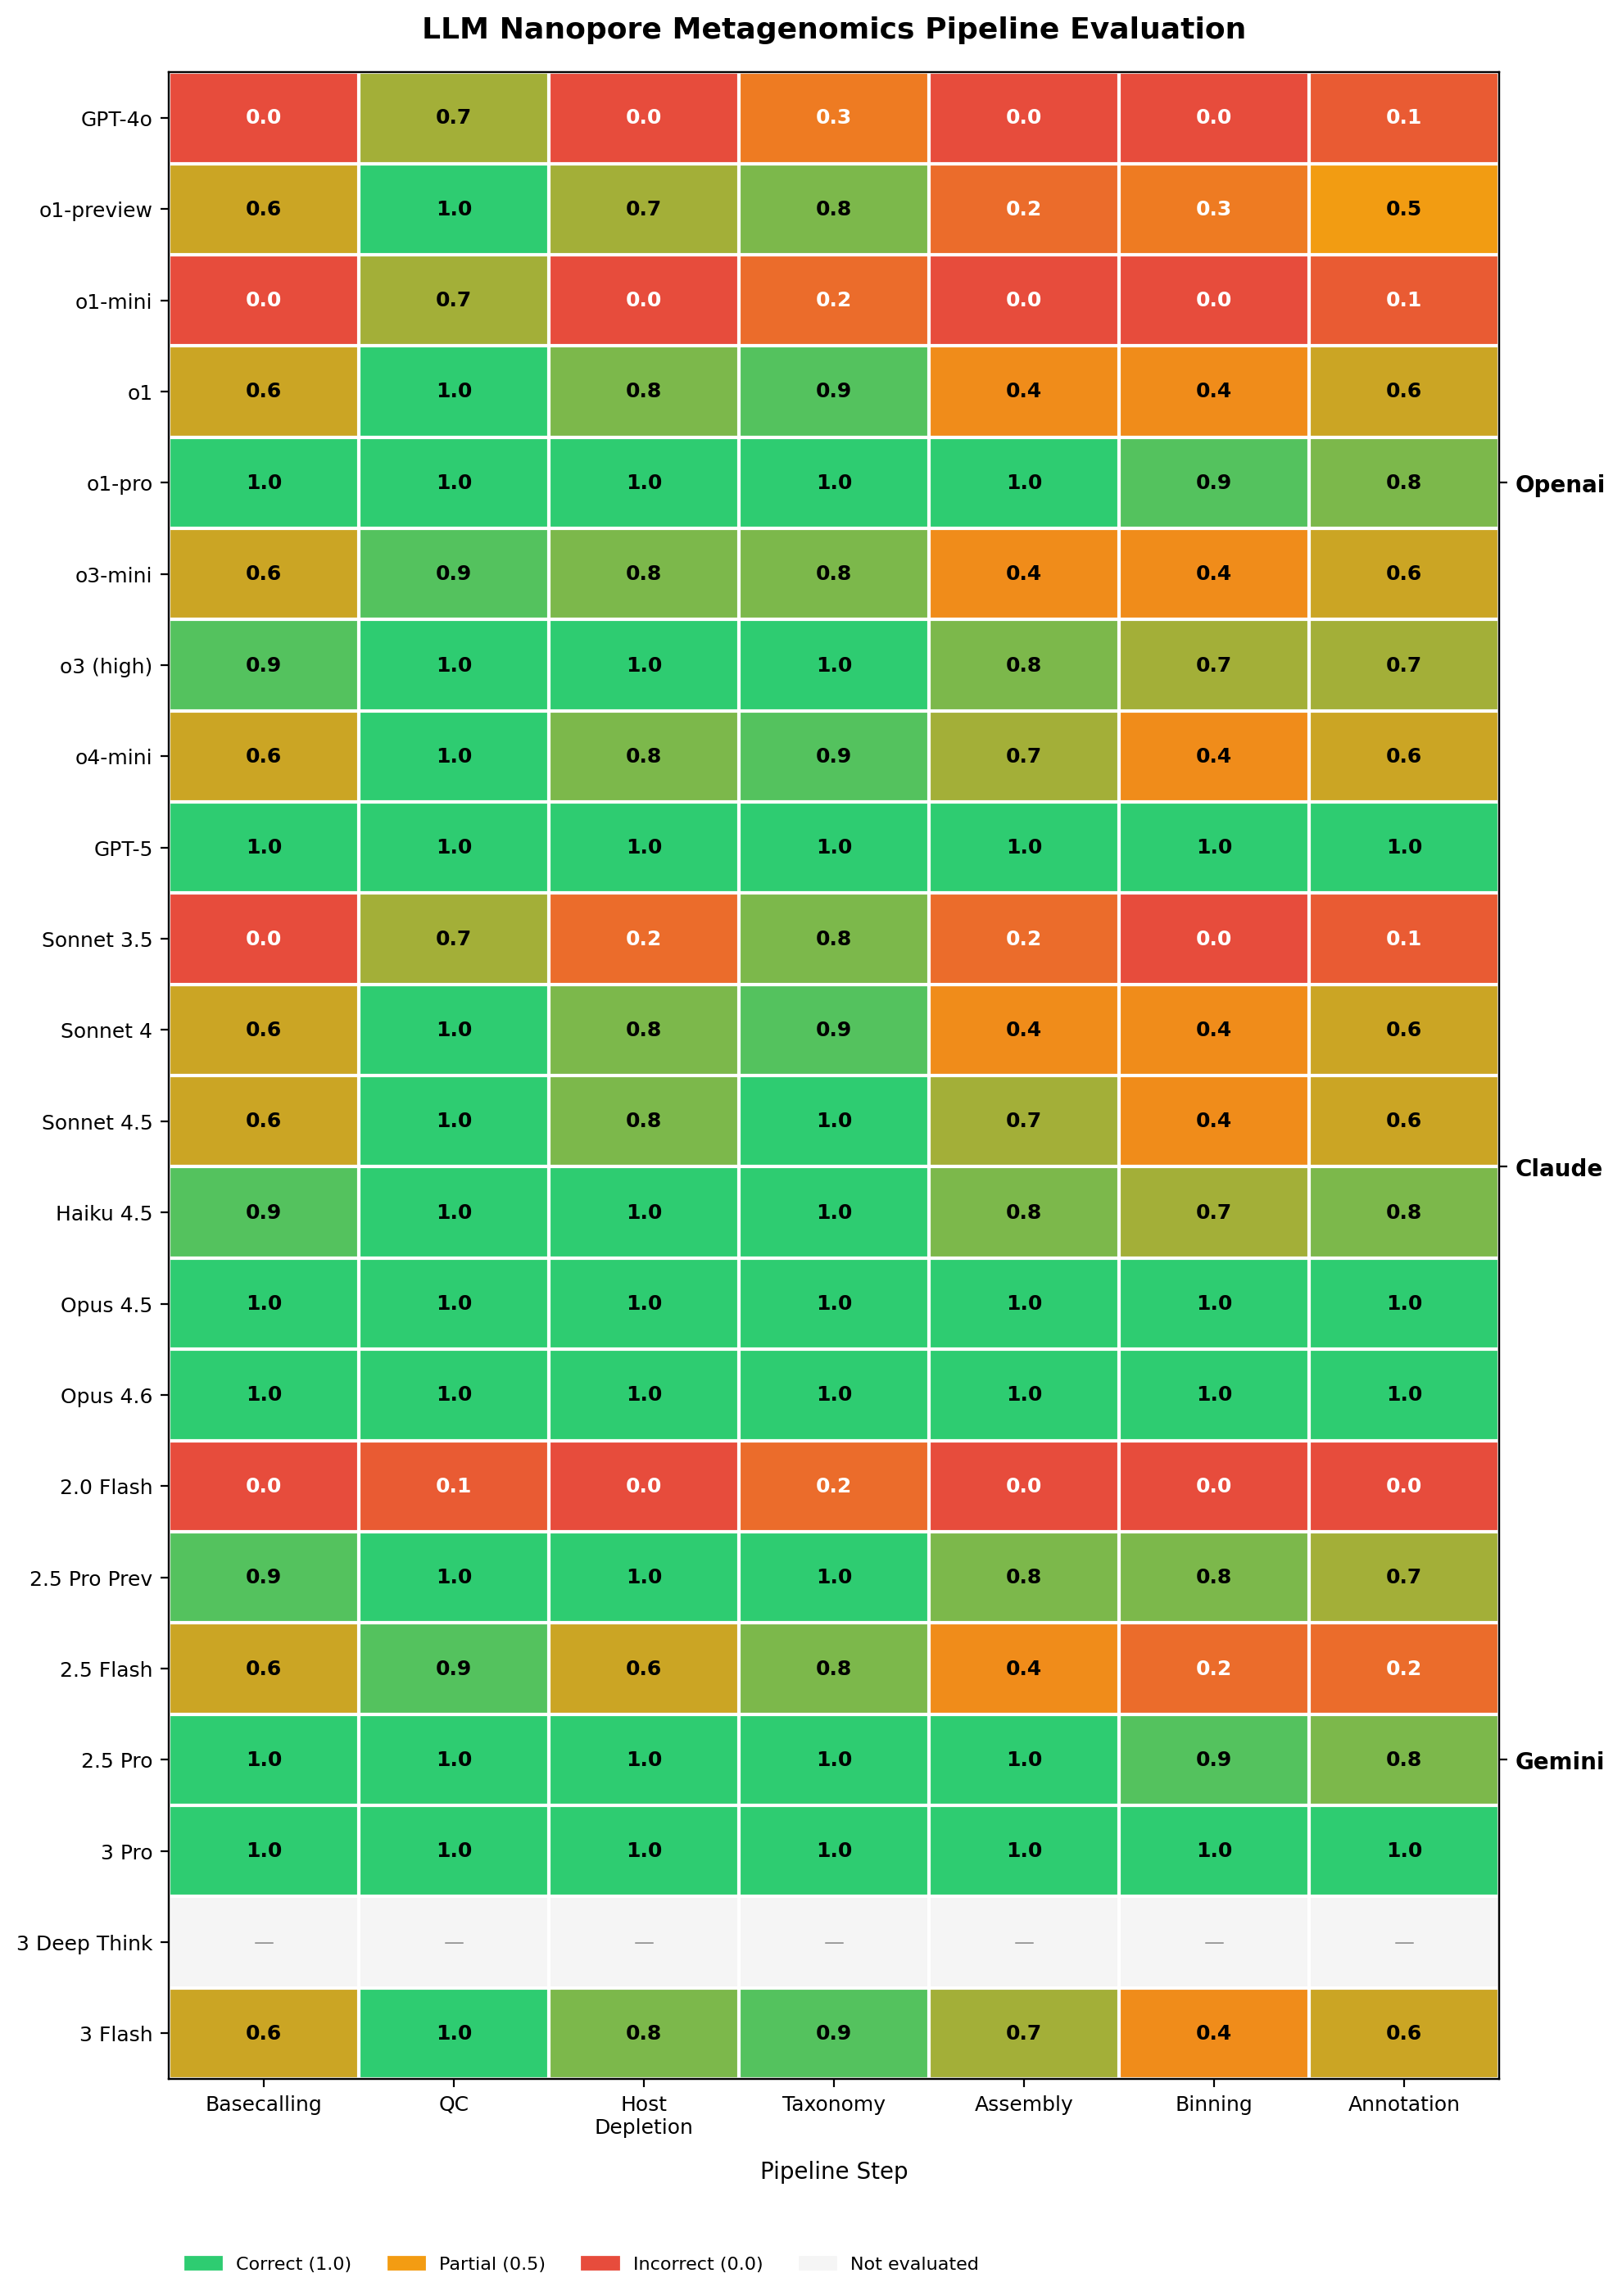
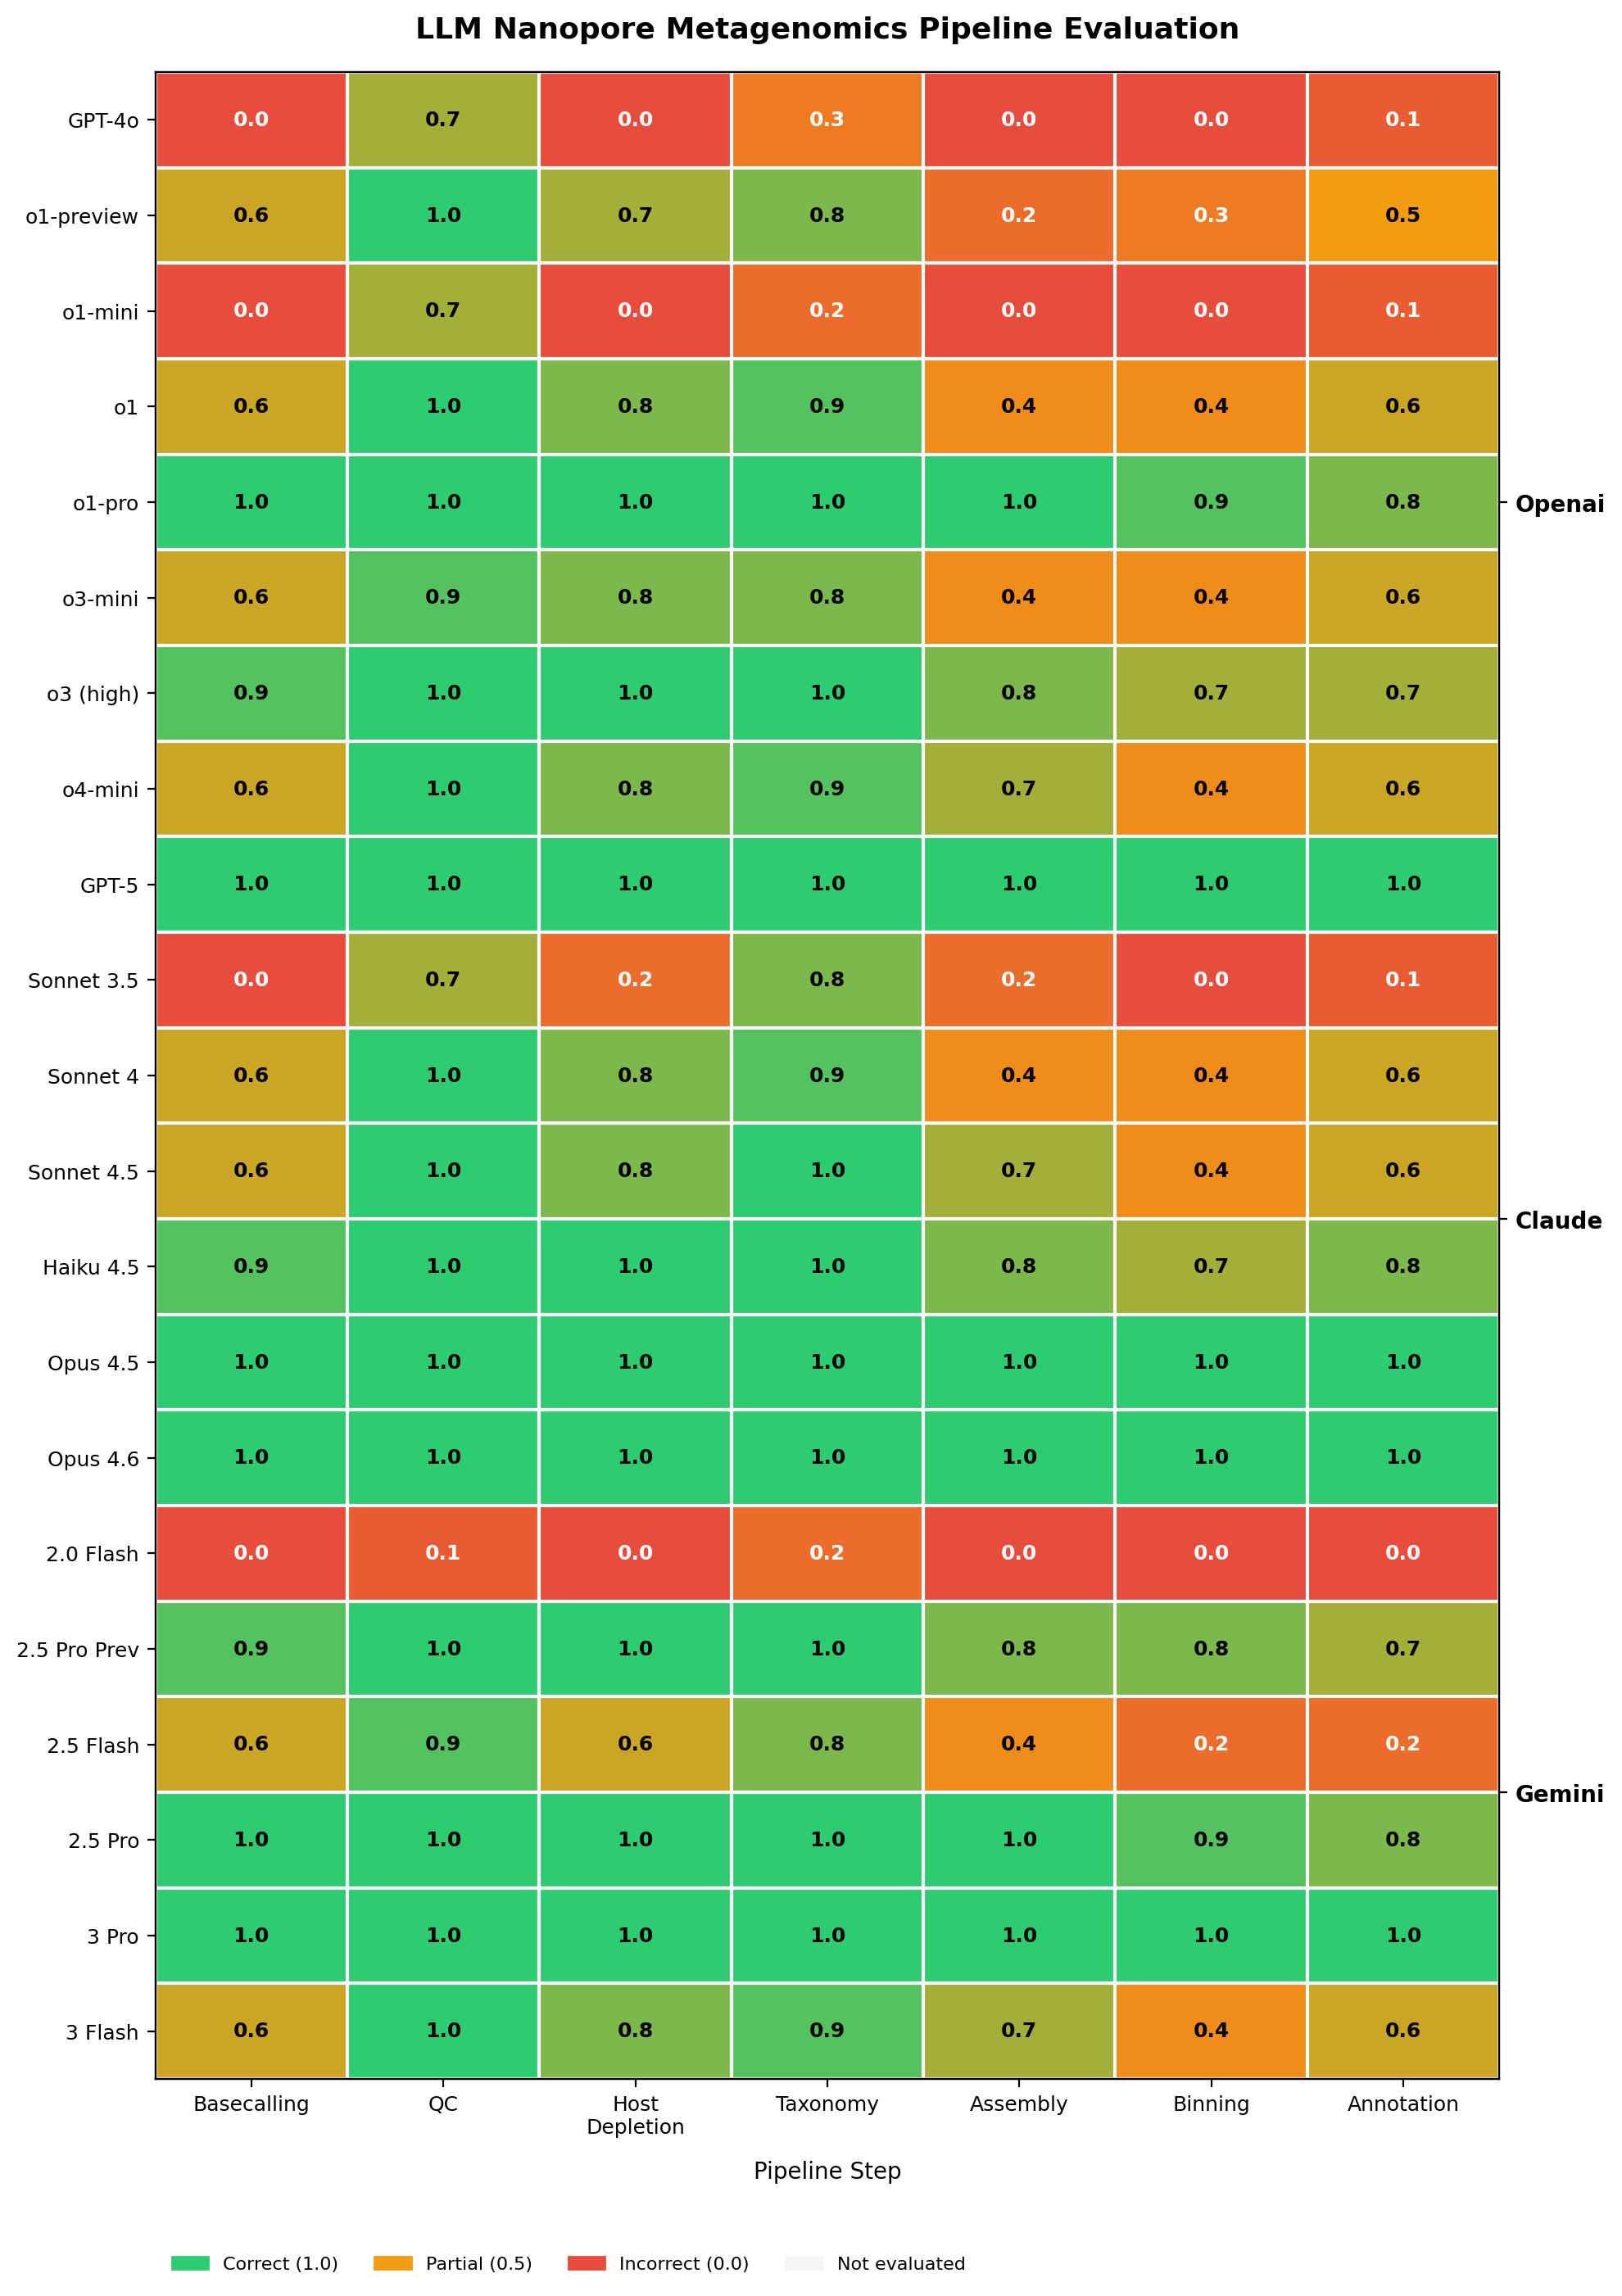
Fix: Remove hardcoded Deep Think from scripts and update figures

diff --git a/llm-eval/scripts/generate_radar.py b/llm-eval/scripts/generate_radar.py
@@ -158,7 +158,7 @@ def plot_version_timeline(df: pd.DataFrame, output_path: str):
     version_order = {
         "openai": ["gpt4o", "o1_preview", "o1_mini", "o1", "o1_pro", "o3_mini", "o3_high", "o4_mini", "gpt5"],
         "claude": ["sonnet_3.5", "sonnet_4", "sonnet_4.5", "haiku_4.5", "opus_4.5", "opus_4.6"],
-        "gemini": ["2.0_flash", "2.5_pro_preview", "2.5_flash", "2.5_pro_stable", "3_pro", "3_deep_think", "3_flash"],
+        "gemini": ["2.0_flash", "2.5_pro_preview", "2.5_flash", "2.5_pro_stable", "3_pro", "3_flash"],
     }
 
     version_labels = {
@@ -167,7 +167,7 @@ def plot_version_timeline(df: pd.DataFrame, output_path: str):
         "sonnet_3.5": "S3.5", "sonnet_4": "S4", "sonnet_4.5": "S4.5",
         "haiku_4.5": "H4.5", "opus_4.5": "Op4.5", "opus_4.6": "Op4.6",
         "2.0_flash": "2.0F", "2.5_pro_preview": "2.5PP", "2.5_flash": "2.5F",
-        "2.5_pro_stable": "2.5P", "3_pro": "3P", "3_deep_think": "3DT", "3_flash": "3F",
+        "2.5_pro_stable": "2.5P", "3_pro": "3P", "3_flash": "3F",
     }
 
     for family, style in FAMILY_STYLES.items():

diff --git a/llm-eval/scripts/generate_heatmap.py b/llm-eval/scripts/generate_heatmap.py
@@ -62,7 +62,6 @@ MODEL_ORDER = [
     ("gemini", "2.5_flash"),
     ("gemini", "2.5_pro_stable"),
     ("gemini", "3_pro"),
-    ("gemini", "3_deep_think"),
     ("gemini", "3_flash"),
 ]
 
@@ -87,7 +86,6 @@ MODEL_LABELS = {
     ("gemini", "2.5_flash"): "2.5 Flash",
     ("gemini", "2.5_pro_stable"): "2.5 Pro",
     ("gemini", "3_pro"): "3 Pro",
-    ("gemini", "3_deep_think"): "3 Deep Think",
     ("gemini", "3_flash"): "3 Flash",
 }
 